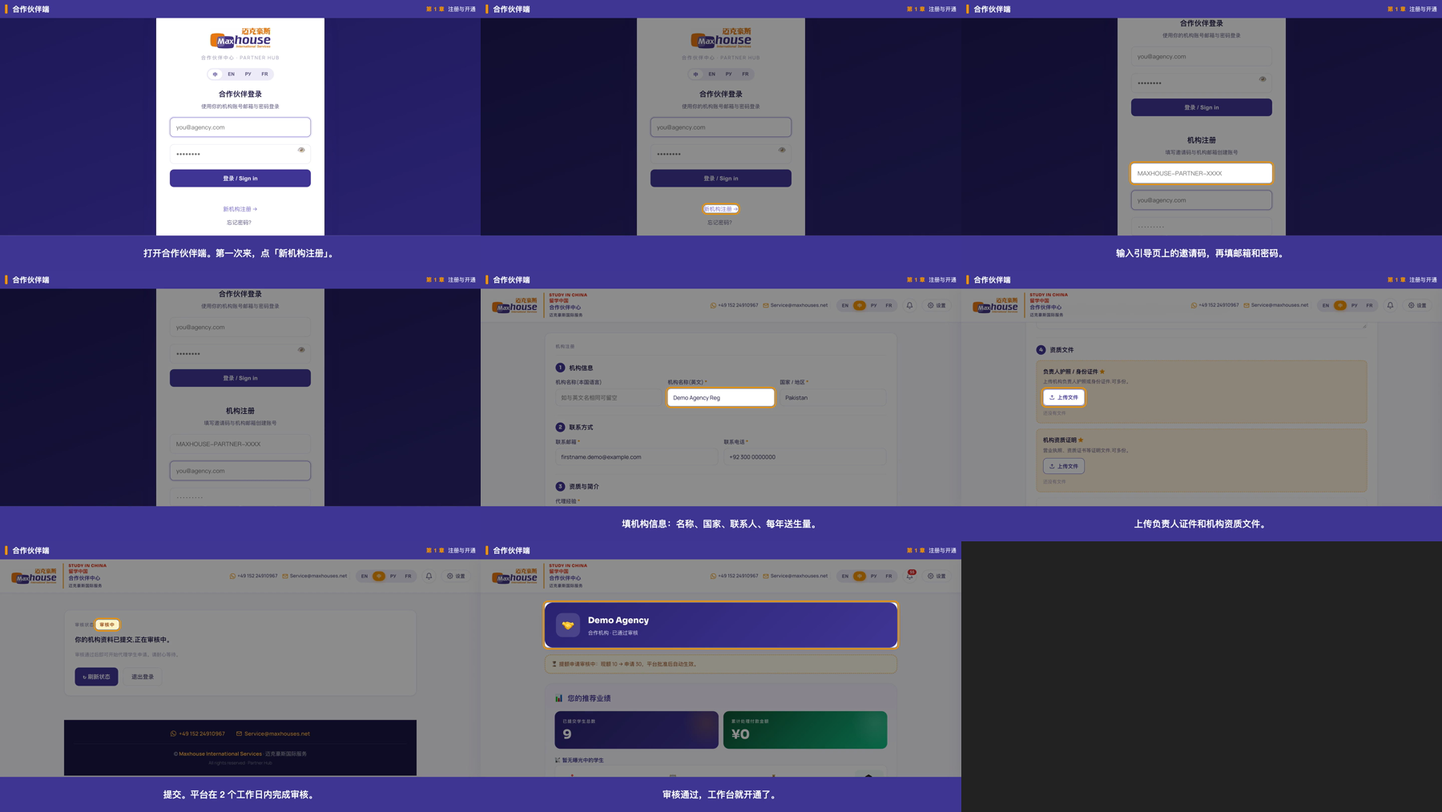
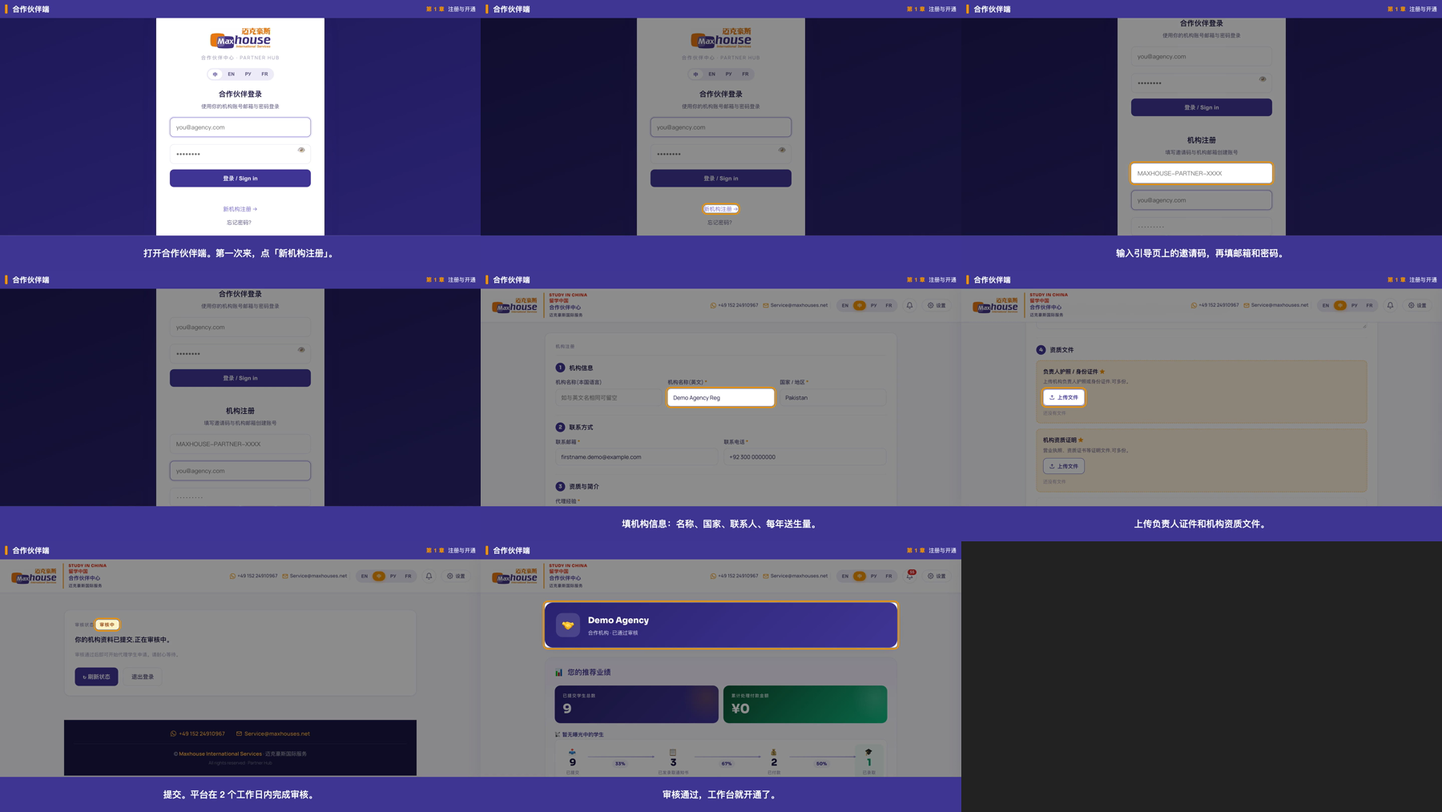
JOB-GP1 第三轮返工trip39: ch1 §三.10 定版重录 + §三.7 去横幅 + §三.9 俄法章节条。ch1 四语横竖 8 片 v185 重录(不沿用旧录像); 1-8 露工作台顶部→录前 st-ch8-quota-off/录后 restore 去 Quota raise pending 横幅; 俄法章节条继承 trip38 overlay(Центр партнёров/Espace partenaires)。ch1 字幕无缺陷纯重录。开工+收工 verify 均 17/17 PASS 0 FAIL。亲验 EN land/port 1-8(¥0 无负数·无横幅·STUDEN

Changed region(s): [[0.3733, 0.7949, 0.6222, 0.9477]]

diff --git a/JOB-GP1-03-PROGRESS.md b/JOB-GP1-03-PROGRESS.md
@@ -1,5 +1,16 @@
-最后一趟：2026-10-13 第38趟 第三轮返工（RULING-20261013b-video-only）：**做了＝第〇节放回代码核验（partner-portal 与线上一致·无 v186·diff 空）+ ch2 §三.1 重做**。2-3 高亮改框第一张学生卡整卡（原框计数药丸）；2-4 改为依次框 5 张不同真实阶段的卡状态行（nth1/4/5/6/8＝审核中/已通过匹配/新offer/已发通知书/录取完成·rec.mjs 新增 hlseq 多段高亮）+四语字幕重写重配音；§三.7 录前 st-ch8-quota-off/录后 restore 去掉工作台顶部提额横幅；§三.9 俄法章节条左标签改 Центр партнёров/Espace partenaires。四语横竖 8 片 v185 重录+重拼，开工+收工 verify 均 **17/17 PASS 0 FAIL**。亲眼逐帧复验 EN seg1-5/2-1/2-3+ZH seg3+RU/FR seg5：环框正确、无提额横幅、¥0 无负数、各 ¥ 正数、无 beta/test、双盲守住、no @gmail。第二版成片留底 _v2/、dist 覆盖第三轮版。**下趟＝ch1（§三.10 十章全部重录：四语横竖 v185 定版重录+§三.7 去横幅+§三.9 俄法章节条；ch1 字幕无缺陷纯重录）**。GP-1 第三轮返工未收官。
+最后一趟：2026-10-13 第39趟 第三轮返工（RULING-20261013b-video-only）：**做了＝第〇节代码核验（partner-portal 与线上一致·无 v186·diff 空）+ ch1 §三.10 定版重录 + §三.7 去横幅 + §三.9 俄法章节条**。ch1 四语横竖 8 片用 v185 重录（不沿用旧录像）；1-8 露工作台顶部→录前 st-ch8-quota-off/录后 restore 去掉「Quota raise pending 10→30」横幅；俄法章节条左标签继承 trip38 已改 overlay（Центр партнёров/Espace partenaires）。ch1 字幕无缺陷纯重录（字幕/shots/captions/产品码一字未改）。开工+收工 verify 均 **17/17 PASS 0 FAIL**。亲眼逐帧：EN land 1-8 f00402+EN port 1-8 f00438（hero 橙框·¥0 无负数·无横幅·STUDENTS 9）+RU/FR land 章节条裁帧（Центр партнёров/Espace partenaires）；无 beta/test、双盲守住、no @gmail、页头平台联系方式不遮（D-14-3/D-15-1）、俄法 hero LL 英文回退 D-18-4 照录。第二版 ch1 成片留底 _v2/、dist 覆盖第三轮版。**下趟＝ch3（§三.3 ch3-3 中俄法档案字段高亮+§三.4 ch3-9 滚到 Demo Aisha 卡+§三.8 俄法 3-1 引用按钮名+§一 工作台；state 章需 st-ch3-cleanup/mark-test）**。GP-1 第三轮返工未收官。
+> 【存档·第38趟】最后一趟：2026-10-13 第38趟 第三轮返工（RULING-20261013b-video-only）：**做了＝第〇节放回代码核验（partner-portal 与线上一致·无 v186·diff 空）+ ch2 §三.1 重做**。2-3 高亮改框第一张学生卡整卡（原框计数药丸）；2-4 改为依次框 5 张不同真实阶段的卡状态行（nth1/4/5/6/8＝审核中/已通过匹配/新offer/已发通知书/录取完成·rec.mjs 新增 hlseq 多段高亮）+四语字幕重写重配音；§三.7 录前 st-ch8-quota-off/录后 restore 去掉工作台顶部提额横幅；§三.9 俄法章节条左标签改 Центр партнёров/Espace partenaires。四语横竖 8 片 v185 重录+重拼，开工+收工 verify 均 **17/17 PASS 0 FAIL**。亲眼逐帧复验 EN seg1-5/2-1/2-3+ZH seg3+RU/FR seg5：环框正确、无提额横幅、¥0 无负数、各 ¥ 正数、无 beta/test、双盲守住、no @gmail。第二版成片留底 _v2/、dist 覆盖第三轮版。**下趟＝ch1（§三.10 十章全部重录：四语横竖 v185 定版重录+§三.7 去横幅+§三.9 俄法章节条；ch1 字幕无缺陷纯重录）**。GP-1 第三轮返工未收官。
 > 【存档·第二版收官单结论，已被第三轮返工重开】最后一趟：2026-10-13 第37趟 返工：**做了＝四语过 review1 §六十一项重审 → GP-1 返工收官**。全部工作台章(ch1/2/3/5/7/8/9/10 v185 定版)+ ch6 §二去揭晓(trip21)+ ch4 原版 + 开场快剪 OP-2..5 + 四语全片/速览(trip36 重拼)齐备。本趟纯复审+文书、**零 DB 写入**，开工+收工 verify **17/17 PASS 0 FAIL**。十一项四语各自全过：写 REVIEW-en-self.md(九项升十一项 v2)+ 新建 REVIEW-{zh,ru,fr}-self.md；四张 shots 逐镜对账表 **0 条「否」**。当场新验：①禁用词＋真名校名＋beta/test 对 captions 全 **57 镜×4 语** 扫描 **0 命中**；②8 个片尾成片 ED-{land,port}-{en,zh,ru,fr} 抽实帧 jsQR **真帧解码**全＝`…/partner-portal/?src=video-<语言>` 逐字对；③ffprobe 实测四语 full/trailer/OP/ED 时长与 trip36 记录逐项一致、segments 全语齐。四语新时长：全片 land/port EN426.6/424.7·ZH441.1/440.3·RU449.9/449.6·FR440.3/439.8s；速览 EN164.3/162.8·ZH168.4/167.6·RU172.3/172.2·FR165.8/165.5s。十一项四语全过→照 RULING-20261012c-rework 第4条重写 `~/mh-jobs/SUMMARY-GP1.md`(首行 **PUSH_OK=yes**，大白话：返工改了什么/review1 每条怎么处理/6 条产品问题留业主/四语新时长/v1 与 v2 区别/GP-2 建议包)。主仓库点名提交 JOB-GP1(4 self-review+DECISIONS D-37-1)不推；4 self-review+SUMMARY+决定账+PROGRESS 推 mh-jobs。**GP-1 四语横竖返工全部收官，循环自停。不开始 GP-2：不传 R2、不动 Cloudflare、不推主仓库。**
+
+# 第 39 趟（2026-10-13 Mac mini 无人值守）· ch1 §三.10 定版重录 + §三.7 去横幅 + §三.9 俄法章节条（RULING-20261013b-video-only）
+- **背景**：第三轮返工续跑（§五 顺序 ch2 后首章＝ch1）。第〇节代码核验：partner-portal 无 v186、`git diff origin/main --stat -- partner-portal` 空、无未跟踪文件→无需还原，本轮不改五端口代码（每趟复核在案）。
+- **本趟＝ch1**：
+  - **§三.10（定版重录）**：ch1 整章四语横竖 8 片用 v185 重录（不沿用旧录像）→ prod-ch 合成覆盖 dist → gp1-finish contact 四语联络表。8 片 res OK+audio yes+no @gmail+8 镜 box 全 resolve。时长 land en49.45/zh49.44/ru51.21/fr49.68·port en49.45/zh49.49/ru51.26/fr49.59s。
+  - **§三.7（去横幅）**：1-8 露工作台顶部 hero。录前 `st-ch8-quota-off`（quota_requests 单列 pending→approved、decided_at 保持 NULL→产品清横幅）、录后 `st-ch8-quota-restore` 还原 pending。横版 en 1-8 f00402+竖版 en 1-8 f00438 亲验：header 与 hero 间无 amber 横幅。收工 verify #13 回 pending。同时取代 trip29 ch1 §一节「1-8 横幅属真实背景、不矛盾」说法。
+  - **§三.9（俄法章节条）**：gp1-overlays.mjs ru.hub=Центр партнёров、fr.hub=Espace partenaires（trip38 已改 commit），本趟 ch1 重烧继承。横版 ru/fr 成片裁帧亲验章节条已改。zh「合作伙伴端」/en「Partner Hub」不在范围、不动。
+- **验收**：开工+收工 verify 均 **17/17 PASS 0 FAIL**（scoped 置态/复位）。1-8 hero TOTAL PAYMENTS PROCESSED ¥0 无负数、STUDENTS SUBMITTED 9、APPROVED 徽章橙框；无 beta/placeholder/test；注册段邀请码打码/SPECIMEN 样件/无真护照电话/Demo Agency 无真 PII；页头平台 WhatsApp/Email 不遮（D-14-3/D-15-1）；俄法 hero LL 英文回退（D-18-4 照录不补）。
+- **账目**：主仓库点名提交 JOB-GP1（REVIEW-{en,zh,ru,fr}-shots.md 追加 ch1 第三轮节 + DECISIONS D-39-1），**未推**（本轮红线）。无 shots/captions/产品码/迁移改动。第二版 ch1 成片留底 `guide/dist/partner/_v2/ch1-*.mp4`，dist 覆盖第三轮版（不入 git）。四语 ch1 联络表 + 4 REVIEW-shots + 决定账 + PROGRESS 推 mh-jobs。
+- **下趟**：ch3（§三.3 ch3-3 中俄法横竖整段停在档案字段出生日期/护照号并高亮 + §三.4 ch3-9 滚到刚提交的 Demo Aisha 卡再框 + §三.8 俄法 3-1 引用按钮名 + §一 工作台背景；ch3 是 state 章需 st-ch3-cleanup/mark-test）。**GP-1 第三轮返工未收官**，后续 ch4→ch10（含 §三.2 ch5-1/§三.5+§三.6 ch7）逐章做，再 OP 重做+重拼+十一项重审→才重写 SUMMARY-GP1。
 
 # 第 38 趟（2026-10-13 Mac mini 无人值守）· 第三轮返工开工 + ch2 §三.1 重做（RULING-20261013b-video-only）
 - **背景**：第二版(trip37)曾判收官；业主 2026-10-13 19:04 改判「不改中介端任何代码、只完成操作视频并上线」→ RULING-20261013b-video-only 开第三轮返工（RULING-20261013a-review2 作废、v186 取消）。SUMMARY-GP1-v2-*.md 系业主改名的第二版收官单，不动。

diff --git a/JOB-GP1-decisions.md b/JOB-GP1-decisions.md
@@ -678,3 +678,17 @@
 - **非四种停下情形**：全在成片/录制工装+§0.3 范围，不碰端口码/不越界/不碰 R2·CF·主仓库推送。
 - **改了**（主仓库，点名 JOB-GP1，不推）：`rec/shots-v1.json`(2-3 hl/2-4 hlseq+capEN/capZH)、`captions-v1.json`(2-4 四语)、`rec/rec.mjs`(hlseq 分支)、`rec/gp1-overlays.mjs`(ru/fr hub 标签)、`rec/tts-gp1.mjs` 未改(复用 --force-ids)、`REVIEW-{en,zh,ru,fr}-shots.md`(追加 ch2 §三.1 第三轮节、旧 2-3/2-4 行标取代)、`DECISIONS.md`、新增探针 `rec/_probe-ch2-issue.mjs`/`_probe-ch2-nth.mjs`/`rec/_seg-strip-24.mjs`。成片/voice 不入 git；ch2 第二版成片已留底 `guide/dist/partner/_v2/`，dist 覆盖为第三轮版。四语 ch2 联络表(contact land/port + 2-4 segments land/port)+4 REVIEW-shots+决定账+PROGRESS 推 mh-jobs。
 - **下趟**（§五 顺序）：ch1（§一 1-8 负数已在 trip29 v185 修；但第三轮 §三.10 要求十章全部重录不沿用旧录像，故 ch1 四语横竖按 v185 重录，§三.7 去提额横幅、§三.9 俄法章节条；ch1 字幕 review1/本轮未标缺陷，纯定版重录+章节条/横幅处理）。**GP-1 第三轮返工未收官**，后续 ch3→ch10（含 §三.2 ch5-1/§三.3 ch3-3/§三.4 ch3-9/§三.5+§三.6 ch7/§三.8 俄法引用按钮名）逐章做，再 OP 重做+重拼+十一项重审→才重写 SUMMARY-GP1。
+
+## D-39-1 (2026-10-13 第39趟 · ch1 §三.10 定版重录 + §三.7 去横幅 + §三.9 俄法章节条 · RULING-20261013b-video-only)
+- **接手核对**：git status（主仓库半成品皆别线/工装残留，本线不碰；仅一枚别趟遗留探针 `_probe-pt03-final.sql` 未跟踪，非本趟产物、不提交）+ 读齐 PROGRESS/loop-tail(20261013-192852)/RULING-20261013b-video-only(本轮总纲)/-gp1(§二停下四情形)/-c/-b/-d/-e/DECISIONS(D-38-1)/QUEUE/storyboard。首行开工即改「第39趟 第三轮返工进行中」，开工 verify **17/17 PASS 0 FAIL**。
+- **第〇节（放回代码）当趟复核**：`git diff origin/main --stat -- partner-portal` 空、partner-portal 下无未跟踪文件、无任何 v186 文件。第二/三轮从未动 v186→无需还原。本轮不改五端口任何代码（本决定项即第〇节 2 条检查的第39趟记录）。
+- **本趟选题（§五 顺序：ch2 后首章＝ch1）**：§三.10（ch1 四语横竖 v185 定版重录，不沿用旧录像）+ §三.7（1-8 露工作台顶部→去提额横幅）+ §三.9（俄法章节条左标签，随本章重烧继承 trip38 已改的 gp1-overlays.mjs）。ch1 字幕 review1/本轮未标缺陷→字幕/高亮/shots/captions 一字未改，纯定版重录+横幅/章节条处理。
+- **§三.10 实现（零改产品码/迁移/共用组件）**：`node rec.mjs --chapter 1 --orient {land,port} --lang {en,zh,ru,fr}` 8 变体（rec 读 v185、只读 DOM）→ `prod-ch --tag <lang>-<orient>-ch1` 合成 8 片覆盖 dist → `gp1-finish --stage contact --chapter 1 --lang <lang>` 四语联络表。8 片 res OK + audio yes + no @gmail + 8 镜 box 全 resolve。
+- **§三.7（去横幅）·我的决定**：沿用 trip32/trip38 的 scoped 法——录前 `st-ch8-quota-off.sql`（quota_requests 单列 pending→approved、decided_at 保持 NULL→产品 `_qrApplyBanner` 清横幅、`partners.referral_quota` 不动仍 10、hero 数字不变）、录后 `st-ch8-quota-restore.sql` 还原 pending。亲验横版 en 1-8 原始帧 f00402 + 竖版 en 1-8 原始帧 f00438：header 与 hero 之间已无 amber「Quota raise pending: 10→30」横幅。收工 verify #13 回 pending、17/17 PASS。此举同时取代上一轮（trip29）ch1 §一节「1-8 横幅属真实背景态、不矛盾」的说法——§三.10/§三.7 要求凡露工作台顶部的镜（含 1-8）一律去横幅。
+- **§三.9（俄法章节条）**：gp1-overlays.mjs BAR_I18N.ru.hub=「Центр партнёров」、fr.hub=「Espace partenaires」已由 trip38(D-38-1)改并 commit；本趟 ch1 重烧章节条自动继承。横版 ru/fr 成片裁帧亲验：章节条＝「Центр партнёров」/「Espace partenaires」（/tmp/ch1-{ru,fr}-bar.png）。zh「合作伙伴端」/en「Partner Hub」不在 §三.9 范围、不动。
+- **自验（亲眼逐帧，铁律15）**：EN land 1-8 f00402（hero 橙框·¥0 无负数·无横幅·STUDENTS 9·APPROVED 橙框）+ EN port 1-8 f00438（竖版同）+ RU land 章节条「Центр партнёров」+ FR land 章节条「Espace partenaires」。全程无 beta/placeholder/test、¥0 无负数；注册段邀请码打码/SPECIMEN 样件/无真护照号电话/演示机构 Demo Agency 无真 PII；页头平台 WhatsApp/Email（Service@maxhouses.net）不遮（D-14-3/D-15-1）。俄法 hero 卡标签/提额横幅等 LL 动态串英文回退＝D-18-4 照录不补、入 SUMMARY。
+- **时长（最终成片，秒）**：land en 49.45 / zh 49.44 / ru 51.21 / fr 49.68；port en 49.45 / zh 49.49 / ru 51.26 / fr 49.59。
+- **DB**：开工+收工 verify 均 **17/17 PASS 0 FAIL**，baseline 守住（scoped 置态/复位，无全量 rebuild，D-12-2）。写入/删除仅 §0.3 范围（quota_requests 单列可逆）。
+- **非四种停下情形**：全在成片/录制工装 + §0.3 范围，不碰端口码/不越界/不碰 R2·CF·主仓库推送。
+- **改了**（主仓库，点名 JOB-GP1，不推）：`REVIEW-{en,zh,ru,fr}-shots.md`（追加 ch1 §三.10+§三.7+§三.9 第三轮节、trip29 ch1 §一横幅记账行标取代）、`DECISIONS.md`。无 shots/captions/产品码/迁移改动（§三.10 纯重录，§三.7 用既有 state，§三.9 用 trip38 既有 overlay）。成片/voice 不入 git；ch1 第二版成片已留底 `guide/dist/partner/_v2/ch1-*.mp4`（同一文件只留一次），dist 覆盖为第三轮版。四语 ch1 联络表 + 4 REVIEW-shots + 决定账 + PROGRESS 推 mh-jobs。
+- **下趟**（§五 顺序）：ch3（§三.3 ch3-3 中俄法横竖整段停在档案字段出生日期/护照号并高亮 + §三.4 ch3-9 滚到刚提交的 Demo Aisha 卡再框 + §三.8 俄法 3-1 引用按钮名 + §一 工作台背景；ch3 是 state 章需 st-ch3-cleanup/mark-test）。**GP-1 第三轮返工未收官**，后续 ch4→ch10（含 §三.2 ch5-1/§三.5+§三.6 ch7）逐章做，再 OP 重做+重拼+十一项重审→才重写 SUMMARY-GP1。

diff --git a/JOB-GP1-REVIEW-en-shots.md b/JOB-GP1-REVIEW-en-shots.md
@@ -218,3 +218,13 @@ ch10＝设置章（账户/语言/退出），3 镜 10-2/10-3/10-4，全程在已
 
 - 逐张亲眼复验（EN land OP-3/4/5 card 帧 + b-roll 帧 + 尾帧；EN port OP-4 复验）：OP-3 真 app_no、OP-4 ¥0（无负数）、OP-5 校名揭晓+下载；全程**无 beta/内测/test 控件**（7-1 的 `.cloud-offer-unlock` beta 链接由录制层 HIDE_INIT 在原始帧即遮；OP-4 定格 ts4.5 避开 7-0 末尾「Paid (beta placeholder)」吐司）；演示生/机构无真 PII、邮箱掩码 `agency.demo@example.com`（no @gmail）；双盲守住（OP-5 校名揭晓＝付款解锁后合法态，非盲态泄校名）；标题条文字＝ EN OP-3/4/5 卡标题/ED-1 回顾串一字一致。
 - 卡总时长不变（EN OP-3 15.6 / OP-4 9.1 / OP-5 14.5s，=配音+0.5），配音未动。OP-3/4/5 做完→全部工作台章+开场快剪返工完毕，本趟重拼四语横竖全片/速览（纳入全部 v185 定版章）。
+
+## ch1 §三.10 + §三.7 + §三.9（第三轮返工 · RULING-20261013b，第39趟 2026-10-13 · v185 定版重录·不沿用旧录像）
+RULING-20261013b §三.10 要求十章全部用 v185 重录、不再沿用任何旧录像；本趟对 ch1 整章四语横竖（8 片）用 v185 重新录制、合成、覆盖 dist。ch1 第 1～7 镜＝注册/入驻 UI（产品自身渲染·client-side·零写库），review1/本轮未标 ch1 任何字幕缺陷→**字幕/高亮一字未改**（字幕原文见上「ch1 §一」节表格）。本节落两处新处理：
+- **§三.7（去提额横幅）**：1-8 露工作台顶部 hero，v185 基线有一张 pending quota_request（verify #13）→ 顶部恒显 amber「Quota raise pending: 10 → 30」。录前 `st-ch8-quota-off.sql`（quota_requests 单列 pending→approved、decided_at 保持 NULL→产品 `_qrApplyBanner` 清横幅）、录后 `st-ch8-quota-restore.sql` 还原 pending；收工 verify #13 回 pending、17/17 PASS。→ **本趟 1-8 已无横幅**（横版 en 原始帧 f00402 + 竖版 en 原始帧 f00438 亲验：header 与 hero 之间无 amber 横幅）。
+  - ⚠ 上「ch1 §一（trip29）」节末「记账」行称「1-8 同帧有 Quota raise pending 横幅…在 ch1 叙事中属真实背景态、不矛盾」——**该行已被本节取代**：§三.10/§三.7 要求凡露工作台顶部的镜（含 1-8）一律去横幅，本趟已按此重录。
+- **§三.9（俄法章节条左标签）**：en 章节条左标签仍「Partner Hub」（不在 §三.9 范围）。ru→「Центр партнёров」、fr→「Espace partenaires」、zh→「合作伙伴端」（gp1-overlays.mjs BAR_I18N，trip38 已改并 commit；本趟 ch1 重烧继承）。横版 ru/fr 成片实帧亲验章节条＝「Центр партнёров」/「Espace partenaires」。
+- 1-8 hero 背景数字：`TOTAL PAYMENTS PROCESSED ¥0`（无负数，缺陷1 销账）、`STUDENTS SUBMITTED 9`、APPROVED/approved 徽章橙框。
+- 时长（最终成片，秒）：land en 49.45 / zh 49.44 / ru 51.21 / fr 49.68；port en 49.45 / zh 49.49 / ru 51.26 / fr 49.59。8 片全 res OK + audio yes，录制全 **no @gmail**。8 镜 box 全 resolve。
+- 亲眼逐帧复验：EN land 1-8 原始帧 f00402（hero 橙框·¥0·无横幅·STUDENTS 9）、EN port 1-8 原始帧 f00438（竖版同·无横幅·¥0）、RU land 章节条「Центр партнёров」、FR land 章节条「Espace partenaires」。全程无 beta/placeholder/test、¥0 无负数；注册段邀请码打码、SPECIMEN 样件、无真护照号/电话、演示机构 Demo Agency 无真 PII；页头平台 WhatsApp/Email（Service@maxhouses.net）不遮（D-14-3/D-15-1）。
+- 联络表（本节证据）：`~/mh-jobs/shots/GP1/<lang>/ch1-contact-{land,port}-<lang>.png`（逐镜中点，四语全部用本趟最终成片重新生成）。

diff --git a/JOB-GP1-REVIEW-zh-shots.md b/JOB-GP1-REVIEW-zh-shots.md
@@ -169,3 +169,12 @@ ch10＝设置章（账户/语言/退出），3 镜 10-2/10-3/10-4，全程在已
 | OP-5 2.5s~尾 | （同句配音续） | ch7 7-1：录取详情·揭晓校名条 演示大学·Wuhan/武汉·SCH-1AD6C8（橙框）· 下载钮「录取通知书 Official PDF」↓（橙框）· 校名已揭晓·联系方式，底叠「④ 奖学金学校亲自填…」 | 是 |
 
 - 亲验（ZH land OP-3 尾帧＝真 app_no MH-M4S9FH）：中文本地化、无负数、无 beta/test、演示生无真 PII、邮箱掩码 no @gmail、双盲守住（校名揭晓＝付款解锁后合法态）、标题条＝ZH OP 卡标题/ED-1 回顾一字一致。卡总时长不变（ZH OP-3 16.0 / OP-4 9.1 / OP-5 18.0s），配音未动。
+
+## ch1 §三.10 + §三.7 + §三.9（第三轮返工 · RULING-20261013b，第39趟 2026-10-13 · v185 定版重录·不沿用旧录像）
+RULING-20261013b §三.10 要求十章全部用 v185 重录、不沿用旧录像。本趟 ch1 整章中文横竖重录。ch1 第 1～7 镜＝注册/入驻 UI（产品渲染·零写库），review1/本轮未标 ch1 字幕缺陷→**字幕一字未改**。
+- **§三.7（去提额横幅）**：1-8 露工作台顶部，v185 基线 pending quota_request→顶部恒显 amber「Quota raise pending: 10→30」。录前 `st-ch8-quota-off`、录后 `st-ch8-quota-restore`，收工 verify #13 回 pending、17/17 PASS。本趟 1-8 已无横幅。
+- **§三.9（章节条）**：zh 章节条左标签「合作伙伴端」（不在 §三.9 改动范围，照旧）；ru「Центр партнёров」、fr「Espace partenaires」为本轮改动。
+- 1-8 hero：`TOTAL PAYMENTS PROCESSED ¥0`（无负数，缺陷1 销账）、`STUDENTS SUBMITTED 9`、「已通过」徽章橙框。
+- 时长：land 49.44s / port 49.49s（8 镜）。横竖 2 片 res OK + audio yes，全片 no @gmail，8 镜 box 全 resolve。
+- 亲眼复验（ZH 共享 EN land 1-8 原始帧论据·背景数字与语言无关；ZH land/port 联络表）：1-8 hero ¥0、无横幅、STUDENTS 9、已通过徽章橙框；中文 UI 本地化（合作伙伴端/章节条「第 1 章」）；无 beta/内测/test、¥0 无负数；注册段邀请码打码、SPECIMEN 样件、无真 PII；页头平台 WhatsApp/Email 不遮（D-14-3/D-15-1）。hero 卡部分 LL 动态串英文回退＝D-18-4 照录不补。
+- 联络表：`~/mh-jobs/shots/GP1/zh/ch1-contact-{land,port}-zh.png`（四语全部用本趟成片重新生成）。

diff --git a/JOB-GP1-REVIEW-fr-shots.md b/JOB-GP1-REVIEW-fr-shots.md
@@ -161,3 +161,12 @@ ch10＝设置章（账户/语言/退出），3 镜 10-2/10-3/10-4，全程在已
 | OP-5 2.5s~尾 | （同句配音续） | ch7 7-1：录取详情「Détails d'admission · Lettre d'admission prête — JW202 à venir」· 揭晓校名条 演示大学·Wuhan·SCH-1AD6C8（橙框）· 下载钮「Lettre d'admission PDF officiel」（橙框）· École révélée·coordonnées，底叠「④ Rempli par l'université…」 | 是（亲验 FR land OP-5） |
 
 - 亲验（FR land OP-5＝校名揭晓+下载法本地化）：无负数、无 beta/test、演示生无真 PII、邮箱掩码 no @gmail、双盲守住（校名揭晓＝付款解锁后合法态）、标题条＝FR OP 卡标题/ED-1 回顾一字一致（D-18-4：产品动态串英文回退照录）。卡总时长不变（FR OP-3 15.4 / OP-4 9.3 / OP-5 15.2s），配音未动。
+
+## ch1 §三.10 + §三.7 + §三.9（第三轮返工 · RULING-20261013b，第39趟 2026-10-13 · v185 定版重录·不沿用旧录像）
+RULING-20261013b §三.10 要求十章全部用 v185 重录。本趟 ch1 整章法文横竖重录。1～7 镜＝注册/入驻 UI（产品渲染·零写库），review1/本轮未标 ch1 字幕缺陷→**字幕一字未改**。
+- **§三.7（去提额横幅）**：1-8 露工作台顶部，录前 `st-ch8-quota-off`、录后 `st-ch8-quota-restore`，收工 verify #13 回 pending、17/17 PASS。本趟 1-8 已无「Quota raise pending」横幅。
+- **§三.9（章节条左标签）**：fr 章节条左标签 `Partner Hub`→**«Espace partenaires»**（＝v185 法文页头名；gp1-overlays.mjs BAR_I18N.fr.hub，trip38 已改 commit，本趟 ch1 重烧继承）。**横版 fr 成片实帧亲验：章节条＝「Espace partenaires」**（/tmp/ch1-fr-bar.png 裁帧确认）。
+- 1-8 hero：`TOTAL PAYMENTS PROCESSED ¥0`（无负数，缺陷1 销账）、`STUDENTS SUBMITTED 9`、approuvé 徽章橙框。
+- 时长：land 49.68s / port 49.59s（8 镜）。横竖 2 片 res OK + audio yes，no @gmail，8 镜 box 全 resolve。
+- 亲眼复验（FR land 章节条裁帧 + FR land/port 联络表）：章节条「Espace partenaires」、页头法文本地化；1-8 ¥0 无负数、无横幅、STUDENTS 9；无 beta/test。hero 卡部分 LL 动态串英文回退＝D-18-4 照录不补。
+- 联络表：`~/mh-jobs/shots/GP1/fr/ch1-contact-{land,port}-fr.png`。

diff --git a/JOB-GP1-REVIEW-ru-shots.md b/JOB-GP1-REVIEW-ru-shots.md
@@ -161,3 +161,12 @@ ch10＝设置章（账户/语言/退出），3 镜 10-2/10-3/10-4，全程在已
 | OP-5 2.5s~尾 | （同句配音续） | ch7 7-1：录取详情·揭晓校名条 演示大学·Wuhan·SCH-1AD6C8（橙框）· 下载钮 录取通知书（橙框），底叠「④ Заполняет вуз — доставляем вам」 | 是 |
 
 - 亲验（RU land OP-4＝¥0 发票俄本地化）：无负数、无 beta/test、演示生无真 PII、邮箱掩码 no @gmail、双盲守住、标题条＝RU OP 卡标题/ED-1 回顾一字一致（D-18-4：产品动态串英文回退照录）。卡总时长不变（RU OP-3 15.5 / OP-4 10.5 / OP-5 16.0s），配音未动。
+
+## ch1 §三.10 + §三.7 + §三.9（第三轮返工 · RULING-20261013b，第39趟 2026-10-13 · v185 定版重录·不沿用旧录像）
+RULING-20261013b §三.10 要求十章全部用 v185 重录。本趟 ch1 整章俄文横竖重录。1～7 镜＝注册/入驻 UI（产品渲染·零写库），review1/本轮未标 ch1 字幕缺陷→**字幕一字未改**。
+- **§三.7（去提额横幅）**：1-8 露工作台顶部，录前 `st-ch8-quota-off`、录后 `st-ch8-quota-restore`，收工 verify #13 回 pending、17/17 PASS。本趟 1-8 已无「Quota raise pending」横幅。
+- **§三.9（章节条左标签）**：ru 章节条左标签 `Partner Hub`→**«Центр партнёров»**（＝v185 俄文页头名；gp1-overlays.mjs BAR_I18N.ru.hub，trip38 已改 commit，本趟 ch1 重烧继承）。**横版 ru 成片实帧亲验：章节条＝「Центр партнёров」**（/tmp/ch1-ru-bar.png 裁帧确认）。
+- 1-8 hero：`TOTAL PAYMENTS PROCESSED ¥0`（无负数，缺陷1 销账）、`STUDENTS SUBMITTED 9`。
+- 时长：land 51.21s / port 51.26s（8 镜，俄文配音最长）。横竖 2 片 res OK + audio yes，no @gmail，8 镜 box 全 resolve。
+- 亲眼复验（RU land 章节条裁帧 + RU land/port 联络表）：章节条「Центр партнёров」、页头俄文本地化；1-8 ¥0 无负数、无横幅、STUDENTS 9；无 beta/test。hero 卡标签/提额横幅等 LL 动态串英文回退＝D-18-4 照录不补，入 SUMMARY。
+- 联络表：`~/mh-jobs/shots/GP1/ru/ch1-contact-{land,port}-ru.png`。
